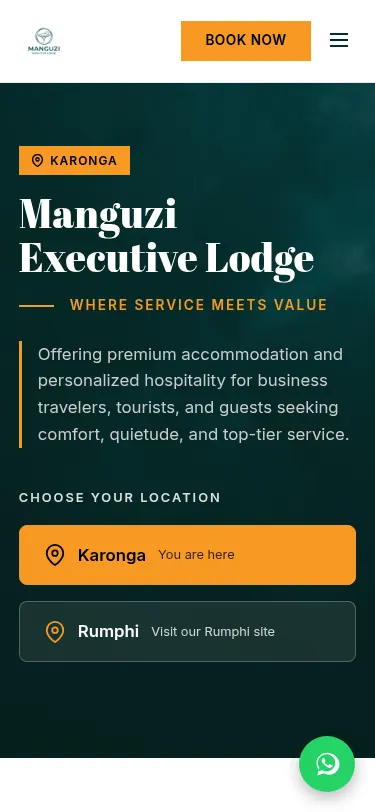
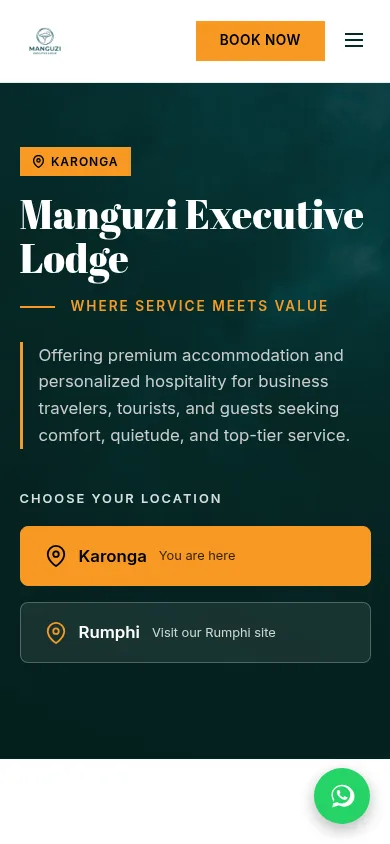
fix: mobile capture, modal tag spacing and device chip design
- recapture the Manguzi live site at 390x844 and top-anchor the portrait card so the card shows the mobile nav + hero instead of a centre slice

- put the device chip and its category label on a flex row with the 0.5rem rhythm used by the stack/tag rows

- restyle the modal device chip to the current tag language: hairline, flat, 4px radius, Inter, small - no glass pill

- retry close-button focus until it lands: the open transition can hold visibility for a few hundred ms under load

diff --git a/public/css/style.css b/public/css/style.css
@@ -1662,6 +1662,12 @@ body.lightbox-open {
     object-position: center;
 }
 
+/* Phone-aspect captures (390x844) crop vertically inside the 4:3 frame, so
+   anchor them to the top of the screenshot: the card then shows the mobile
+   nav + hero instead of a centre slice. Landscape sources only crop
+   horizontally, so this is a no-op for them. */
+.gallery-grid--uniform .gallery-card--portrait picture img { object-position: center top; }
+
 /* ---------- Footer (flat surface + hairline top, no glass) ---------- */
 .footer {
     border-top: 1px solid var(--glass-border);
@@ -2422,7 +2428,29 @@ body.loaded .hero-cta {
 .tools-modal.active .tools-modal-card { transform: none; opacity: 1; }
 .tools-modal-close { position: sticky; top: 0; float: right; background: transparent; border: 1px solid var(--glass-border); color: var(--text-primary); width: 36px; height: 36px; border-radius: var(--radius-btn); cursor: pointer; display: flex; align-items: center; justify-content: center; line-height: 1; font-size: 1.15rem; transition: background 0.2s ease, color 0.2s ease, border-color 0.2s ease; }
 .tools-modal-close:hover { background: var(--surface-b); border-color: var(--accent-blue); color: var(--accent-blue); }
+/* Device chip + category label share one row, spaced with the same 0.5rem
+   rhythm the stack/tag rows use instead of sitting flush against each other. */
+.tools-modal-kicker { display: flex; flex-wrap: wrap; align-items: center; gap: 0.5rem; }
 .tools-modal-content h3 { font-family: var(--font-display); font-size: clamp(1.3rem, 3vw, 1.6rem); letter-spacing: -0.02em; margin: 0.6rem 0 0.2rem; }
+/* Device chip on the detail-page tag language: hairline, flat, 4px curve,
+   Inter, small - not the old glass pill (blur, --glass-bg-soft, 999px radius,
+   accent-tinted glass border). Scoped to the modal so the tool cards keep
+   whatever chip styling their own page gives them. */
+.tools-modal-content .tool-device {
+    font-family: var(--font-primary);
+    font-size: 0.72rem;
+    font-weight: 500;
+    letter-spacing: 0.05em;
+    text-transform: uppercase;
+    padding: 0.3rem 0.6rem;
+    border: 1px solid var(--border-color);
+    border-radius: var(--radius-btn);
+    background: none;
+    -webkit-backdrop-filter: none;
+    backdrop-filter: none;
+    box-shadow: none;
+    color: var(--text-secondary);
+}
 /* The lead is a sentence, not a spec line - body font like the card summary */
 .tools-modal-content .tool-meta { font-family: var(--font-primary); font-size: 0.95rem; line-height: 1.6; letter-spacing: 0; color: var(--text-secondary); margin-bottom: 1rem; display: block; }
 .tools-modal-content p { color: var(--text-secondary); margin: 0.75rem 0; line-height: 1.7; }

diff --git a/public/js/tools.js b/public/js/tools.js
@@ -86,8 +86,10 @@
         var openToolModal = function (tool) {
             if (!toolsModal || !toolsModalContent) return;
             toolsModalContent.innerHTML =
-                '<span class="tool-device ' + tool.dev + '"><i class="ti ' + deviceIcon(tool.dev) + '"></i> ' + deviceLabel(tool.dev) + '</span>' +
-                '<span class="tool-tag">' + tool.tag + '</span>' +
+                '<div class="tools-modal-kicker">' +
+                    '<span class="tool-device ' + tool.dev + '"><i class="ti ' + deviceIcon(tool.dev) + '"></i> ' + deviceLabel(tool.dev) + '</span>' +
+                    '<span class="tool-tag">' + tool.tag + '</span>' +
+                '</div>' +
                 '<h3>' + tool.name + '</h3>' +
                 '<span class="tool-meta">' + tool.summary + '</span>' +
                 '<p>' + tool.intro + '</p>' +
@@ -97,14 +99,21 @@
             toolsModal.setAttribute('aria-hidden', 'false');
             document.body.classList.add('tools-open');
             // The dialog only becomes focusable once the style tick that starts
-            // its open transition has run - a focus() issued here is dropped,
-            // and one frame later it still is. Two frames puts keyboard users
-            // on the close button instead of the card behind the dialog.
-            requestAnimationFrame(function () {
-                requestAnimationFrame(function () {
-                    if (toolsModal.classList.contains('active') && toolsModalClose) toolsModalClose.focus();
-                });
-            });
+            // its open transition has run - a focus() issued there is dropped.
+            // That tick usually lands within two frames, but while the main
+            // thread is busy (theme repaint, image decode) visibility can stay
+            // hidden for a few hundred ms, so retry on the next frames until
+            // keyboard focus actually lands on the close button.
+            var focusAttempts = 0;
+            var focusClose = function () {
+                if (!toolsModal || !toolsModalClose) return;
+                if (!toolsModal.classList.contains('active')) return;
+                if (document.activeElement === toolsModalClose) return;
+                if (focusAttempts++ >= 40) return;
+                toolsModalClose.focus();
+                if (document.activeElement !== toolsModalClose) requestAnimationFrame(focusClose);
+            };
+            requestAnimationFrame(function () { requestAnimationFrame(focusClose); });
         };
 
         var closeToolModal = function () {
